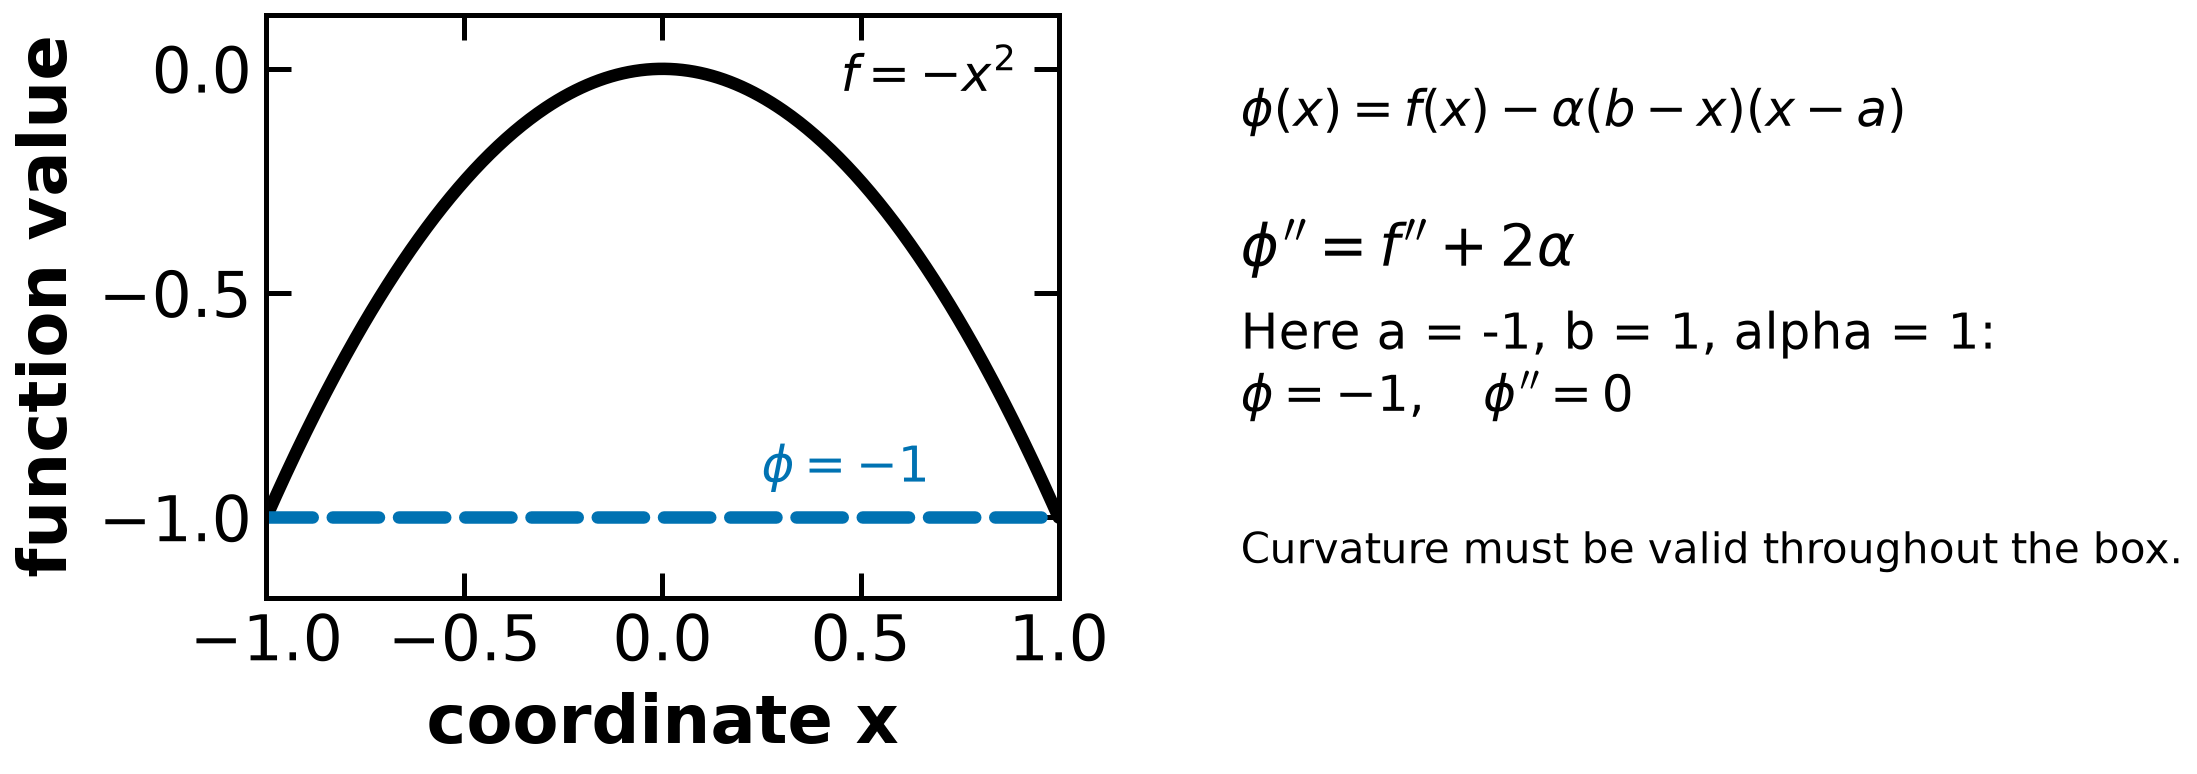
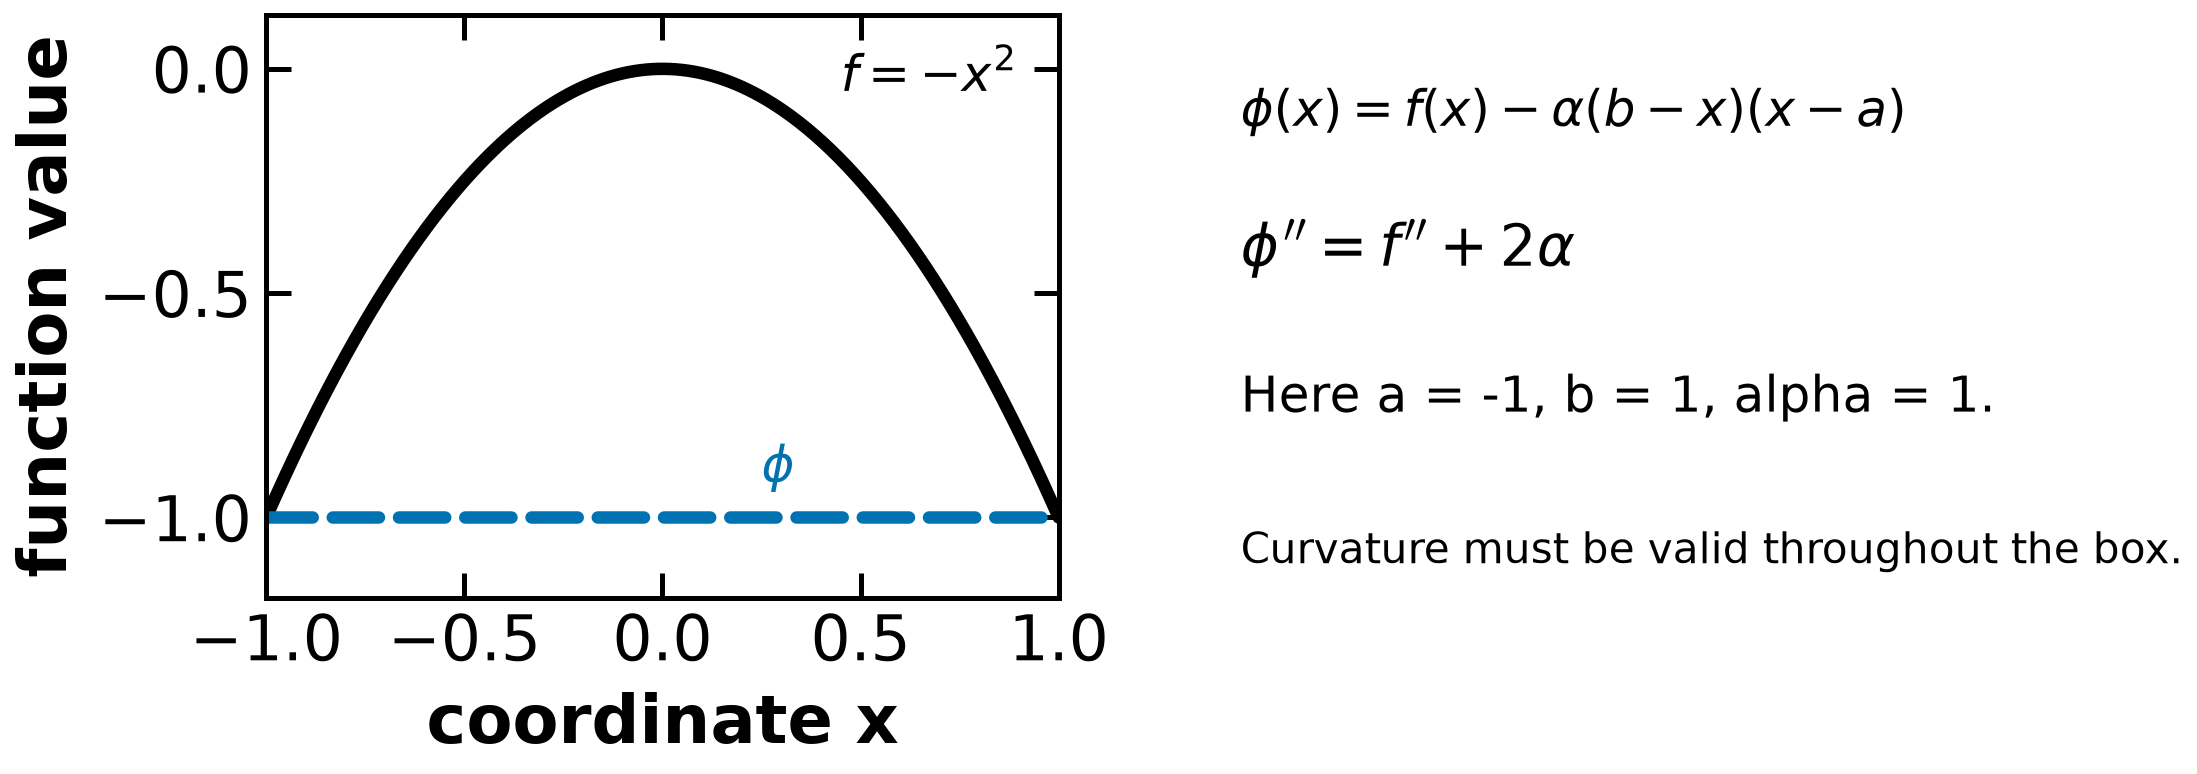
alphaBB figure: stop printing the answers to the Lecture 26 step
go-alphabb-curvature printed 'phi = -1, phi'' = 0' twice (curve label and side
text). Lecture 26 step 2 asks students for exactly those two values, so the
student handout showed the answers beside the blanks. The figure now labels the
curve 'phi' and states only a, b and alpha; the dashed line at -1 still shows
the shifted function. The website keeps the worked example as one sentence in
the alphaBB section: phi = -x^2 - (1-x)(x+1) = -1, so phi'' = 0. Only this
figure was re-rendered (render.py, not make); check_greyscale passes. Published
copy regenerated with process_notebooks.py.

Changed region(s): [[0.5571, 0.4031, 0.8976, 0.5581], [0.3714, 0.5891, 0.4333, 0.6202]]

diff --git a/figures/plots/_go_teaching.py b/figures/plots/_go_teaching.py
@@ -115,10 +115,10 @@ def alphabb_curvature():
     ax.plot(x,np.full_like(x,-1),color='#0072B2',linestyle='--',label=r'$\phi(x)=f(x)-(1-x)(x+1)$')
     ax.set(xlabel='coordinate x',ylabel='function value',xlim=(-1,1),ylim=(-1.18,.12))
     ax.text(.45,-.05,r'$f=-x^2$',fontsize=12)
-    ax.text(.25,-.92,r'$\phi=-1$',color='#0072B2',fontsize=12)
+    ax.text(.25,-.92,r'$\phi$',color='#0072B2',fontsize=12)
     tx.axis('off');tx.text(.02,.81,r'$\phi(x)=f(x)-\alpha(b-x)(x-a)$',fontsize=12)
     tx.text(.02,.57,r'$\phi^{\prime\prime}=f^{\prime\prime}+2\alpha$',fontsize=14)
-    tx.text(.02,.32,'Here a = -1, b = 1, alpha = 1:\n'+r'$\phi=-1,\quad\phi^{\prime\prime}=0$',fontsize=12)
+    tx.text(.02,.32,'Here a = -1, b = 1, alpha = 1.',fontsize=12)
     tx.text(.02,.06,'Curvature must be valid throughout the box.',fontsize=10)
     fig.tight_layout(w_pad=2);return fig
 
